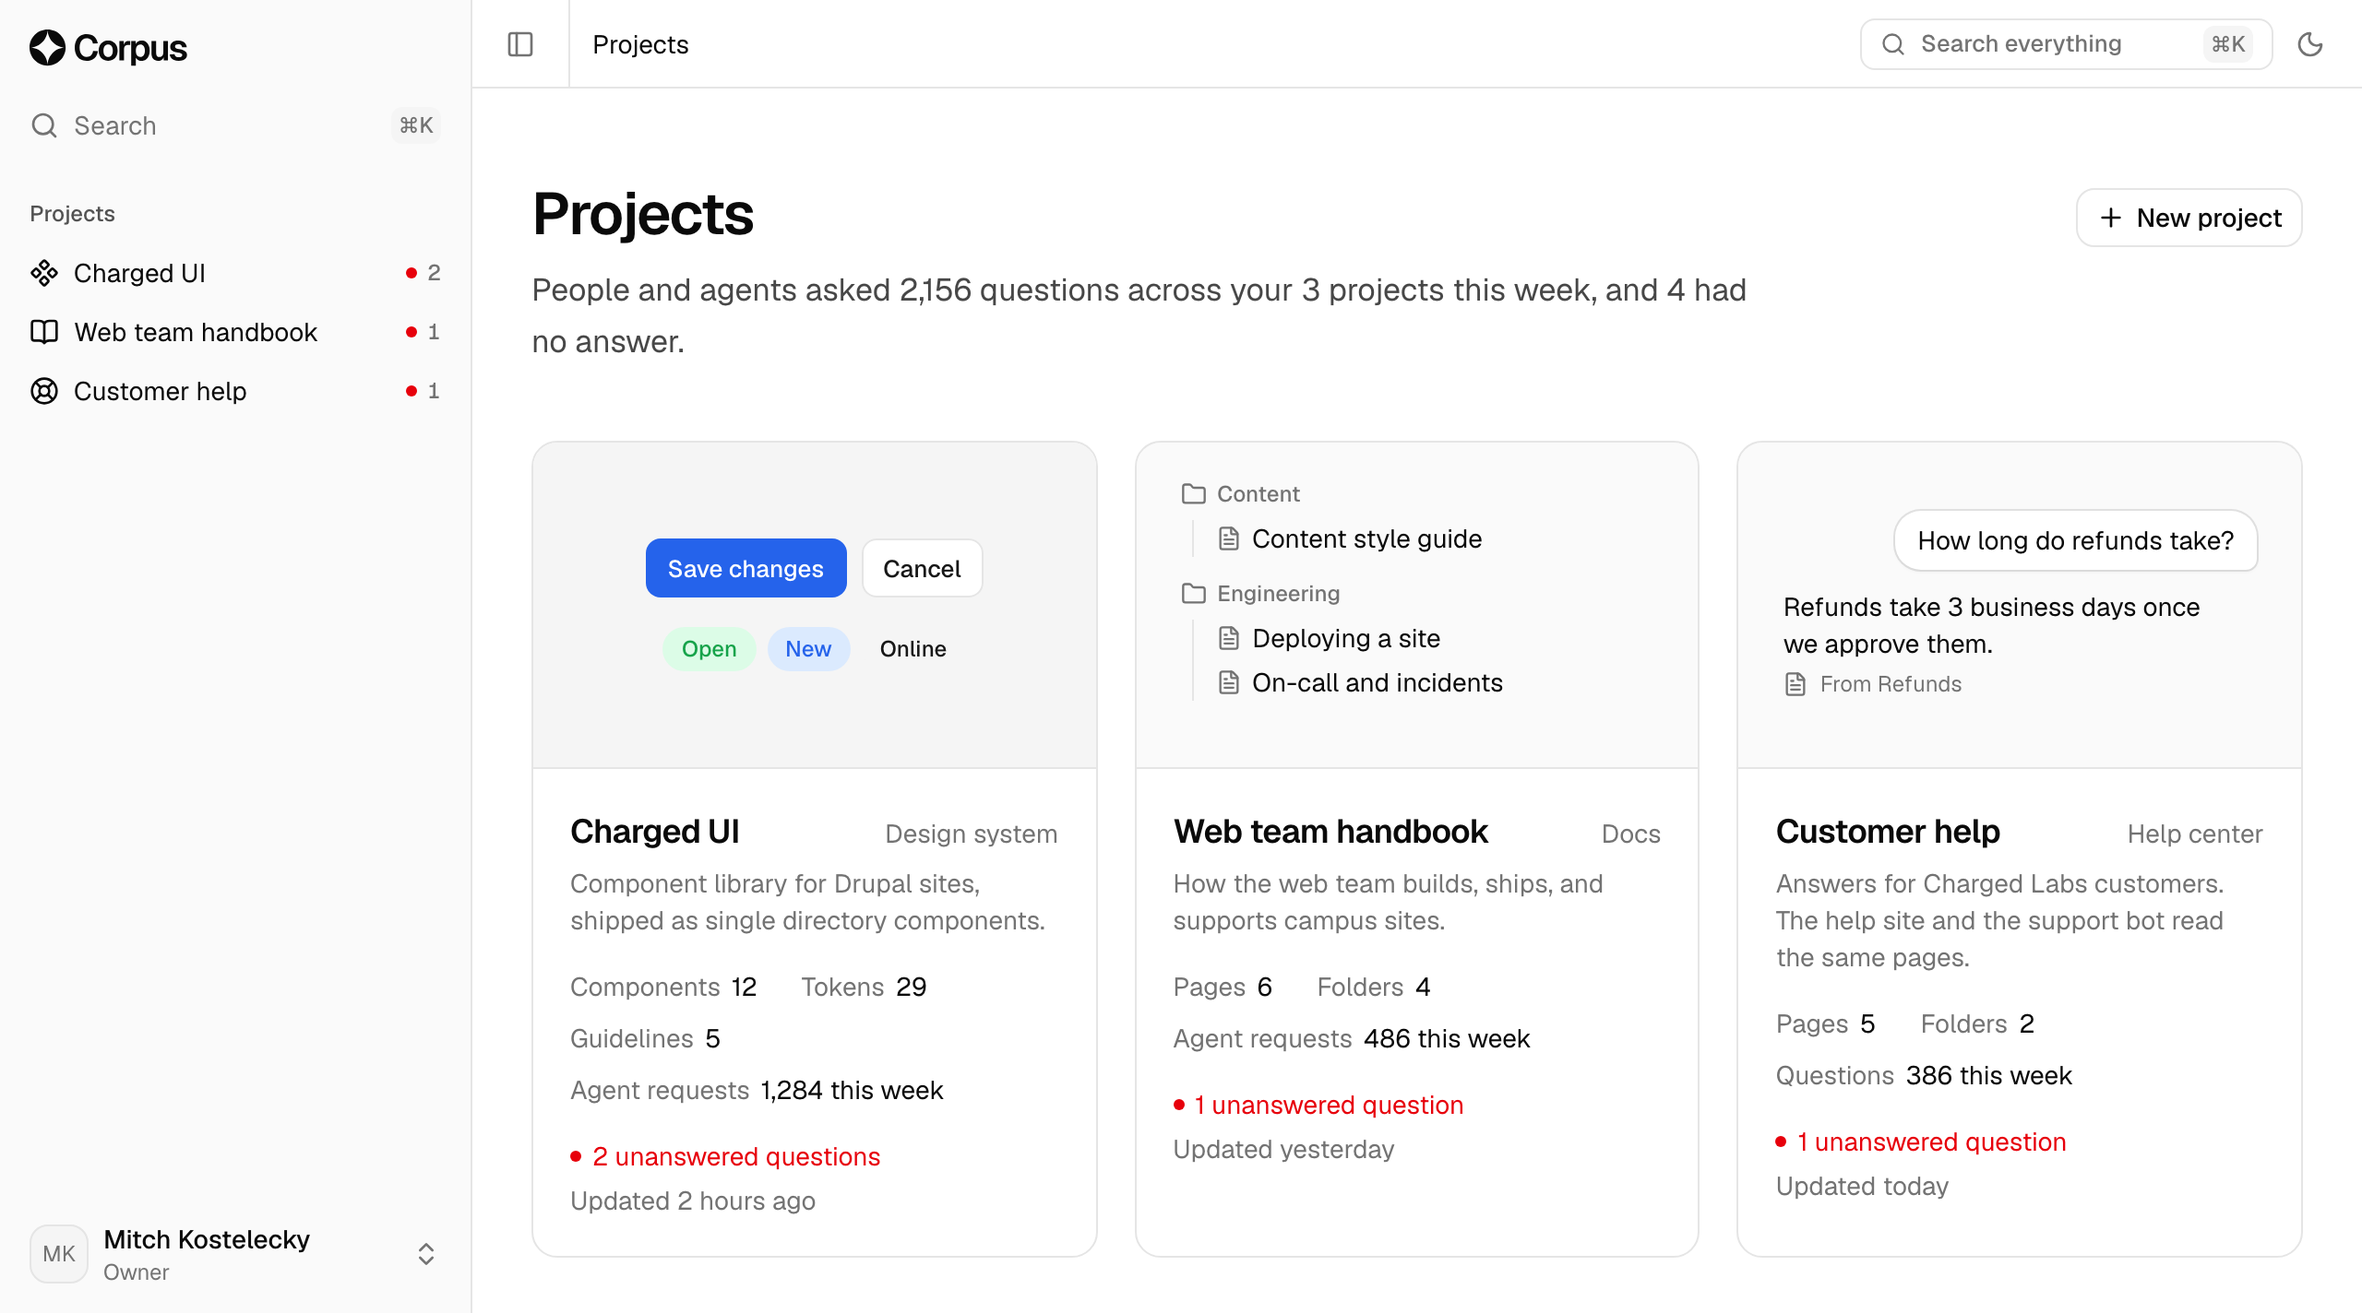
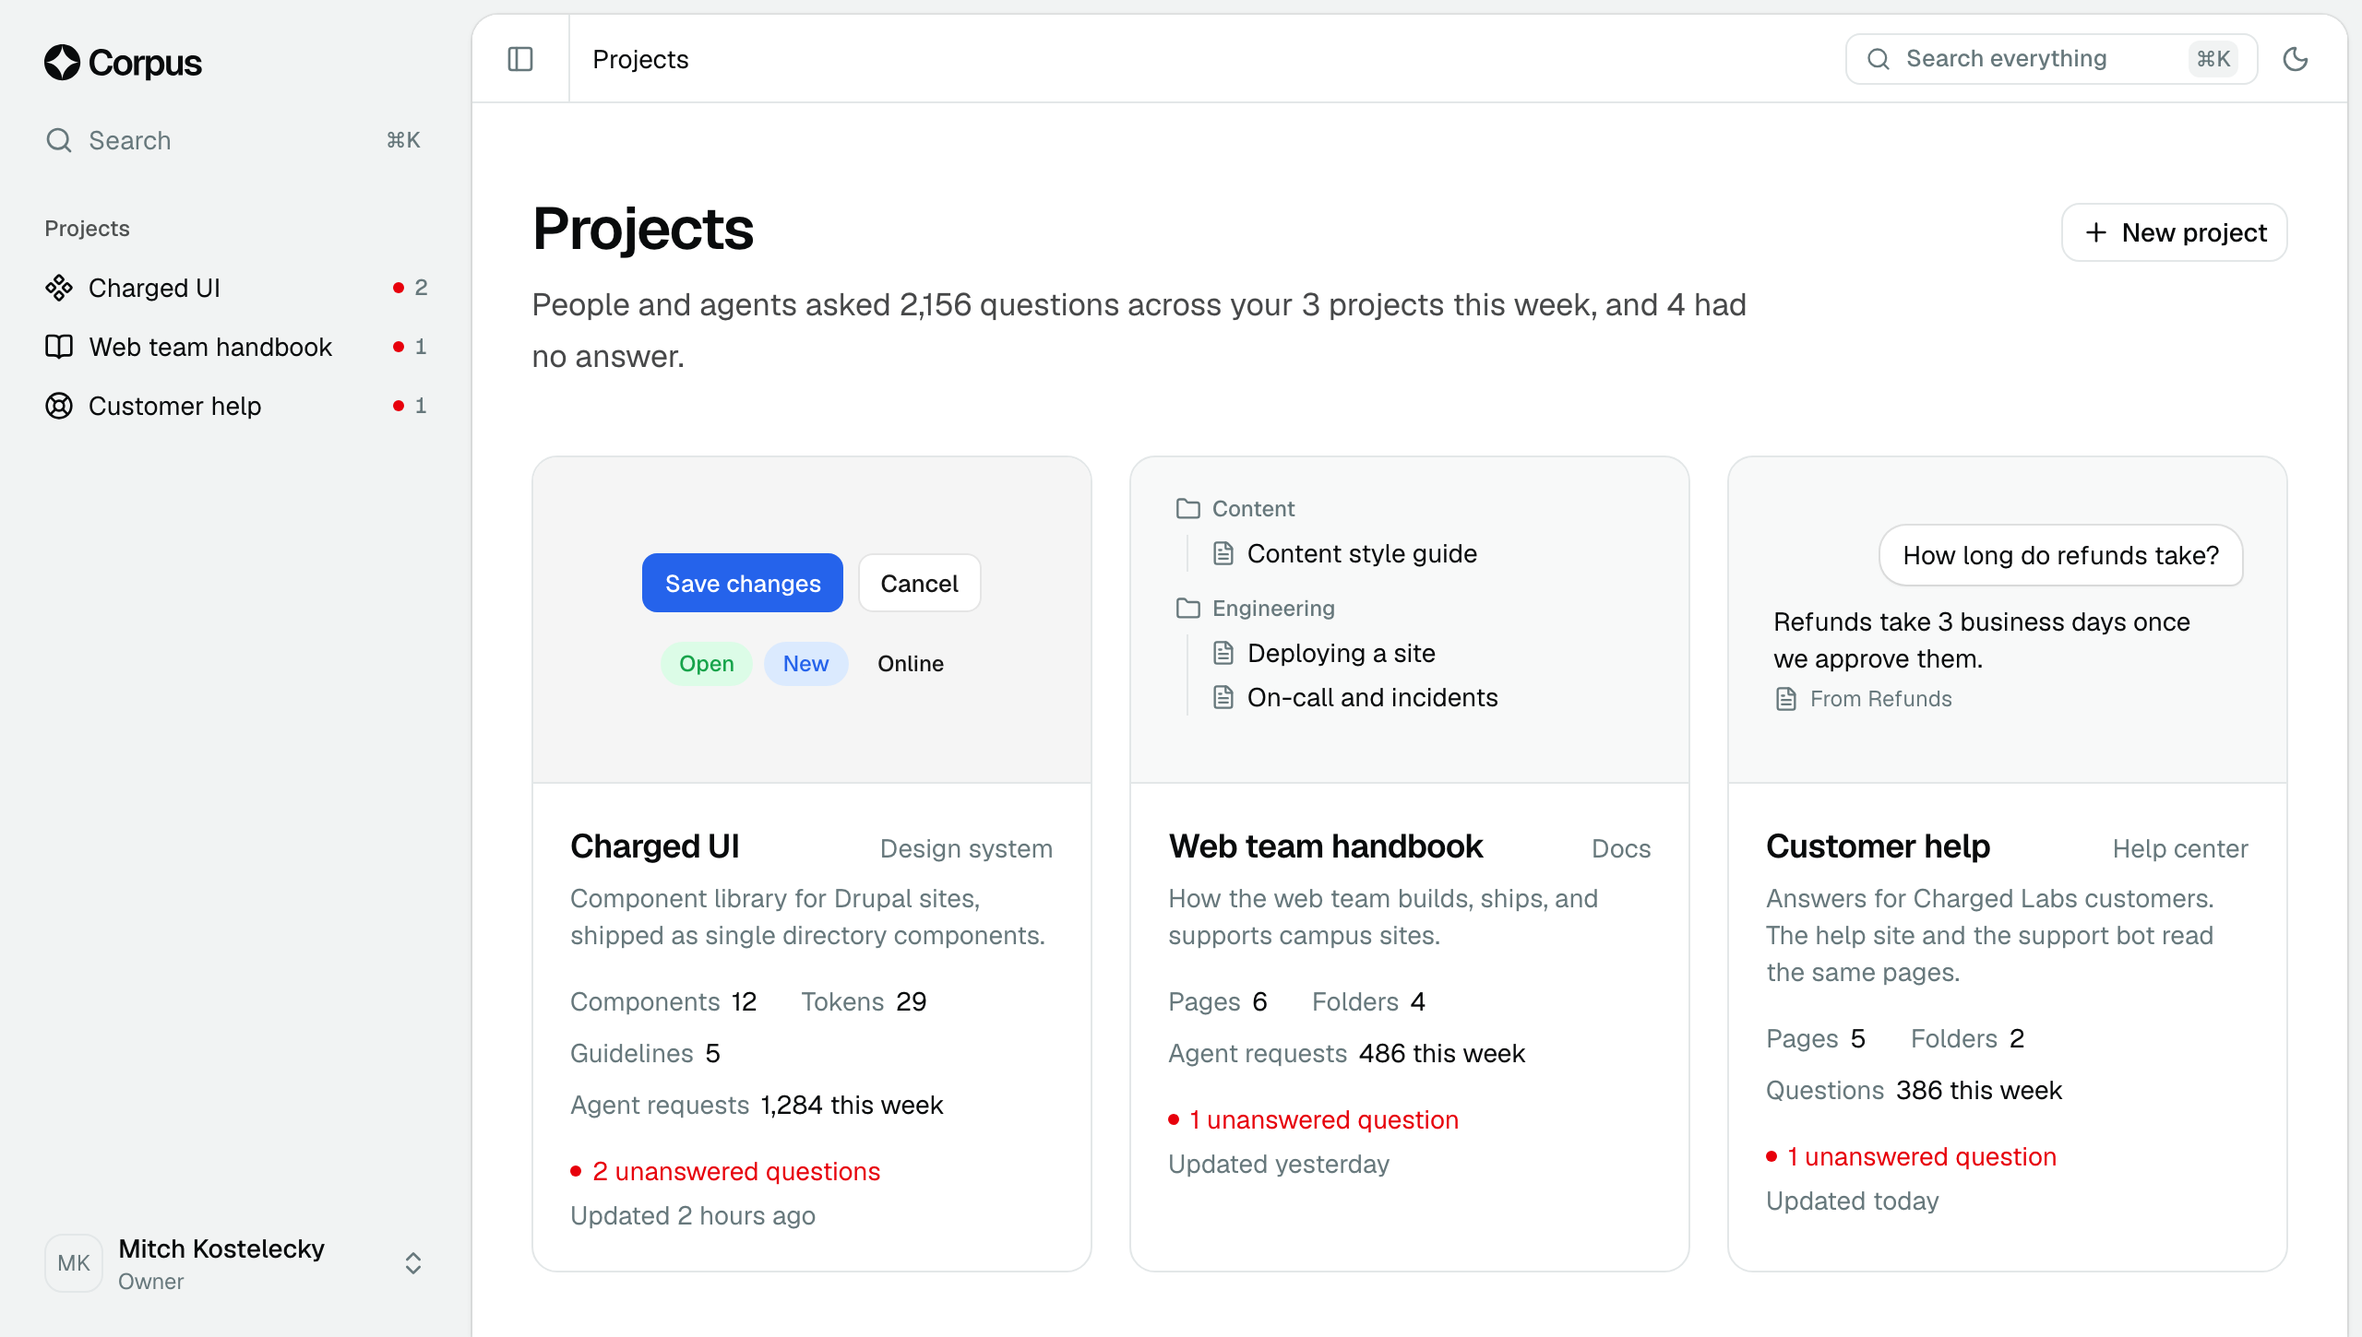
Frame the landing hero as an app window and add a live bot demo
- The hero shows the Projects screen in the new app frame, inside a
  window with the address bar and two callouts: a support answer and
  the agents connected over MCP
- The support bot section is now a working demo. It answers from the
  prototype's five sample help pages with the same rule as the
  prototype's bot, cites the page, and says when no page covers the
  question
- The split view screenshot is retaken in the new palette

diff --git a/landing/src/bot-demo.tsx b/landing/src/bot-demo.tsx
@@ -1,0 +1,139 @@
+import { useState, type FormEvent } from "react";
+import { cn } from "./lib/utils";
+import { answerFrom, helpPages, type BotReply } from "./bot";
+import { CorpusMark, Dot } from "./ui";
+
+const EXAMPLES = [
+  "How long do refunds take?",
+  "Can I move my license to a new site?",
+  "Does the theme work with Drupal 11?",
+  "Do you offer discounts for nonprofits?",
+];
+
+type Turn = { q: string; reply: BotReply };
+
+/**
+ * A working support bot, answering from the sample help center in the prototype.
+ * It starts with one answer showing, so the page reads well before anyone types.
+ */
+export function BotDemo({ className }: { className?: string }) {
+  const [turn, setTurn] = useState<Turn>(() => ({
+    q: EXAMPLES[0],
+    reply: answerFrom(EXAMPLES[0]),
+  }));
+  const [draft, setDraft] = useState("");
+  const [thinking, setThinking] = useState(false);
+
+  const ask = (q: string) => {
+    const text = q.trim();
+    if (!text || thinking) return;
+    setDraft("");
+    setThinking(true);
+    setTurn({ q: text, reply: { kind: "gap" } });
+    window.setTimeout(() => {
+      setTurn({ q: text, reply: answerFrom(text) });
+      setThinking(false);
+    }, 650);
+  };
+
+  const submit = (e: FormEvent) => {
+    e.preventDefault();
+    ask(draft);
+  };
+
+  return (
+    <div className={cn("overflow-hidden rounded-2xl bg-white shot", className)}>
+      <div className="flex items-center justify-between border-b px-5 py-3.5">
+        <span className="flex items-center gap-2.5 text-[15px] font-medium">
+          <span className="grid size-7 place-items-center rounded-lg bg-ink text-white">
+            <CorpusMark className="size-3.5" />
+          </span>
+          Charged Labs help
+        </span>
+        <Dot tone="good" className="text-[13px] text-muted">
+          Answers from {helpPages.length} pages
+        </Dot>
+      </div>
+
+      <div
+        className="grid min-h-[260px] content-start gap-4 bg-subtle px-5 py-5"
+        aria-live="polite"
+      >
+        <p className="max-w-[85%] justify-self-end rounded-2xl rounded-br-md bg-ink px-4 py-2.5 text-[15px] text-white">
+          {turn.q}
+        </p>
+        <div className="max-w-[92%] rounded-2xl rounded-bl-md border bg-white px-4 py-3.5">
+          {thinking ? (
+            <span className="flex gap-1 py-1.5" aria-label="Looking through the help pages">
+              {[0, 1, 2].map((i) => (
+                <span
+                  key={i}
+                  className="size-1.5 animate-bounce rounded-full bg-faint"
+                  style={{ animationDelay: `${i * 120}ms` }}
+                />
+              ))}
+            </span>
+          ) : turn.reply.kind === "answer" ? (
+            <>
+              <p className="text-[15px] leading-[1.55] text-pretty">{turn.reply.text}</p>
+              <p className="mt-3 flex flex-wrap items-center gap-x-2.5 gap-y-1 border-t pt-2.5 text-[13px] text-muted">
+                <Dot tone="good">From</Dot>
+                <span className="font-medium text-ink">
+                  {turn.reply.page.title}
+                  {turn.reply.section ? `, ${turn.reply.section}` : ""}
+                </span>
+                <code className="font-mono text-[12px]">{turn.reply.page.path}</code>
+              </p>
+            </>
+          ) : (
+            <>
+              <Dot tone="bad" className="text-[15px] font-medium text-bad">
+                No page answers this yet
+              </Dot>
+              <p className="mt-1.5 pl-4 text-[14.5px] leading-[1.5] text-pretty text-muted">
+                I’ll pass this to a person instead of guessing. Your team sees it in its list of
+                questions to answer.
+              </p>
+            </>
+          )}
+        </div>
+      </div>
+
+      <div className="border-t px-5 py-4">
+        <div className="flex flex-wrap gap-2">
+          {EXAMPLES.slice(1).map((q) => (
+            <button
+              key={q}
+              type="button"
+              onClick={() => ask(q)}
+              disabled={thinking}
+              className="rounded-full border bg-white px-3 py-1.5 text-[13.5px] text-muted transition hover:border-neutral-300 hover:text-ink focus-visible:ring-4 focus-visible:ring-neutral-200 focus-visible:outline-none disabled:opacity-60"
+            >
+              {q}
+            </button>
+          ))}
+        </div>
+        <form onSubmit={submit} className="mt-3 flex gap-2">
+          <label htmlFor="bot-question" className="sr-only">
+            Ask the support bot
+          </label>
+          <input
+            id="bot-question"
+            value={draft}
+            onChange={(e) => setDraft(e.target.value)}
+            placeholder="Ask your own question"
+            autoComplete="off"
+            className="h-11 min-w-0 flex-1 rounded-xl border bg-white px-3.5 text-[16px] transition outline-none placeholder:text-faint focus:border-neutral-400 focus:ring-4 focus:ring-neutral-200 sm:text-[15px]"
+          />
+          <button
+            type="submit"
+            disabled={thinking || !draft.trim()}
+            className="h-11 shrink-0 rounded-xl bg-ink px-4 text-[15px] font-medium text-white transition hover:bg-neutral-800 focus-visible:ring-4 focus-visible:ring-neutral-300 focus-visible:outline-none disabled:opacity-50"
+          >
+            Ask
+          </button>
+        </form>
+      </div>
+    </div>
+  );
+}

diff --git a/landing/src/App.tsx b/landing/src/App.tsx
@@ -1,12 +1,12 @@
 import { useEffect, useState, type ReactNode } from "react";
 import { CONFIG, JOBS, type JobId } from "./config";
 import { cn } from "./lib/utils";
-import { CorpusLogo, CorpusMark, Dot, Heading, Shot } from "./ui";
+import { AppWindow, CorpusLogo, CorpusMark, Dot, Heading, Shot } from "./ui";
+import { BotDemo } from "./bot-demo";
 import { visit } from "./visit";
 import { PreviewNotice, WaitlistForm } from "./waitlist";
 import heroShot from "./assets/hero-projects.png";
 import splitShot from "./assets/split.png";
-import botShot from "./assets/bot-answer.png";
 
 const WRAP = "mx-auto w-full max-w-[1180px] px-5 sm:px-8";
 
@@ -86,15 +86,41 @@ function Hero() {
         </div>
       </div>
       <div className="mx-auto mt-14 w-full max-w-[1260px] px-5 sm:mt-20 sm:px-8">
-        <Shot
-          src={heroShot}
-          width={2560}
-          height={1424}
-          alt="Corpus with three projects side by side: the Charged UI design system, a web team handbook, and a customer help center, each showing questions asked this week and the ones with no answer"
-          className="rounded-b-none sm:rounded-b-[14px]"
-        />
+        <div className="relative">
+          <AppWindow
+            src={heroShot}
+            width={2560}
+            height={1450}
+            address="corpus.charged.dev"
+            alt="Corpus with three projects side by side: the Charged UI design system, a web team handbook, and a customer help center, each showing questions asked this week and the ones with no answer"
+          />
+          <Callout className="top-[60%] -left-6">
+            <p className="text-[13px] text-muted">“How long do refunds take?”</p>
+            <Dot tone="good" className="mt-1 text-[14px] font-medium">
+              Answered from Refunds
+            </Dot>
+          </Callout>
+          <Callout className="top-[19%] -right-6">
+            <p className="text-[13px] text-muted">Connected over MCP</p>
+            <p className="mt-1 text-[14px] font-medium">Claude Code, Codex, Cursor</p>
+          </Callout>
+        </div>
       </div>
     </section>
+  );
+}
+
+/** A small card floating over the hero window, pointing at one thing the product does. */
+function Callout({ className, children }: { className?: string; children: ReactNode }) {
+  return (
+    <div
+      className={cn(
+        "absolute hidden rounded-xl bg-white px-4 py-3 shadow-[0_0_0_1px_rgb(0_0_0/0.08),0_12px_32px_-12px_rgb(0_0_0/0.25)] lg:block",
+        className,
+      )}
+    >
+      {children}
+    </div>
   );
 }
 
@@ -349,24 +375,19 @@ function SupportBot() {
             title="A support bot that cites its source, or says it doesn’t know."
             lead="It answers customers only from your help center’s pages and links the page it used. When no page covers a question, it hands off to a person instead of guessing."
           />
-          <div className="mt-8 rounded-2xl border p-5">
-            <p className="text-[15px] font-medium">“Do you offer discounts for nonprofits?”</p>
-            <Dot tone="bad" className="mt-3 text-[15px] text-bad">
-              No page answers this yet
-            </Dot>
-            <p className="mt-1.5 pl-4 text-[14.5px] leading-[1.5] text-pretty text-muted">
-              Handed to a person, and added to your list of questions to answer. Write the page
-              once, and every reader gets it.
-            </p>
-          </div>
+          <p className="mt-6 text-[15.5px] leading-[1.55] text-pretty">
+            <span className="font-medium">Try it.</span>{" "}
+            <span className="text-muted">
+              Ask about refunds, licenses, invoices, installing a theme, or updates. Then ask
+              something those pages don’t cover.
+            </span>
+          </p>
         </div>
         <div className="self-center">
-          <Shot
-            src={botShot}
-            width={1664}
-            height={754}
-            alt="The Corpus support bot answering “How long do refunds take?” with “Refunds take 3 business days once we approve them,” linked to the Refunds page it came from"
-          />
+          <BotDemo />
+          <p className="mt-3 text-[13.5px] text-muted">
+            A live demo, running on the five sample help pages from the prototype.
+          </p>
         </div>
       </div>
     </section>

diff --git a/landing/src/bot.ts b/landing/src/bot.ts
@@ -1,0 +1,93 @@
+// The support bot demo on the landing page. It answers from the prototype's own
+// sample help center (fixtures/help), using the same rule as src/lib/support.ts:
+// answer from the best-matching section, or say it doesn't know when fewer than
+// half of the question's meaningful words appear there. Keep the two in step.
+
+export type HelpPage = { id: string; title: string; path: string; body: string };
+
+const files = import.meta.glob<string>("../../fixtures/help/docs/**/*.md", {
+  query: "?raw",
+  import: "default",
+  eager: true,
+});
+
+export const helpPages: HelpPage[] = Object.entries(files).map(([file, source]) => {
+  const path = file.replace(/^.*fixtures\/help\//, "");
+  const front = source.match(/^---\n([\s\S]*?)\n---\n?/);
+  const title = front?.[1].match(/^title:\s*(.+)$/m)?.[1].trim() ?? path;
+  return {
+    id: path.replace(/^.*\//, "").replace(/\.md$/, ""),
+    title,
+    path,
+    body: front ? source.slice(front[0].length) : source,
+  };
+});
+
+const STOP = new Set(
+  (
+    "a an the and or but to of in on for with at by from is are was be do does did can could " +
+    "i you we my your our it its how what when where which who why will would should there this " +
+    "that these those me us any about into if so as have has get"
+  ).split(" "),
+);
+
+function words(text: string): string[] {
+  return (text.toLowerCase().match(/[a-z0-9]+/g) ?? [])
+    .filter((w) => w.length > 1 && !STOP.has(w))
+    .map((w) => {
+      if (w.length > 4 && w.endsWith("ies")) return `${w.slice(0, -3)}y`;
+      if (w.length > 3 && w.endsWith("s") && !w.endsWith("ss")) return w.slice(0, -1);
+      return w;
+    });
+}
+
+function plain(md: string) {
+  return md
+    .replace(/\[([^\]]+)\]\([^)]+\)/g, "$1")
+    .replace(/[`*_]/g, "")
+    .replace(/^[-*]\s+/gm, "")
+    .replace(/\s*\n\s*/g, " ")
+    .trim();
+}
+
+type Section = { heading: string | null; text: string };
+
+function sectionsOf(page: HelpPage): Section[] {
+  const out: Section[] = [];
+  let heading: string | null = null;
+  for (const block of page.body.split(/\n\s*\n/)) {
+    const b = block.trim();
+    if (!b) continue;
+    const h = b.match(/^#{2,3}\s+(.*)$/);
+    if (h) {
+      heading = h[1];
+      continue;
+    }
+    out.push({ heading, text: plain(b) });
+  }
+  return out;
+}
+
+export type BotReply =
+  | { kind: "answer"; text: string; page: HelpPage; section: string | null }
+  | { kind: "gap" };
+
+export function answerFrom(question: string, pages: HelpPage[] = helpPages): BotReply {
+  const asked = [...new Set(words(question))];
+  if (!asked.length) return { kind: "gap" };
+  let best: { page: HelpPage; section: Section; coverage: number } | null = null;
+  for (const page of pages) {
+    for (const section of sectionsOf(page)) {
+      const found = new Set(words(`${page.title} ${section.heading ?? ""} ${section.text}`));
+      const coverage = asked.filter((w) => found.has(w)).length / asked.length;
+      if (!best || coverage > best.coverage) best = { page, section, coverage };
+    }
+  }
+  if (!best || best.coverage < 0.5) return { kind: "gap" };
+  return {
+    kind: "answer",
+    text: best.section.text,
+    page: best.page,
+    section: best.section.heading,
+  };
+}

diff --git a/landing/src/ui.tsx b/landing/src/ui.tsx
@@ -118,3 +118,46 @@ export function Heading({
     </div>
   );
 }
+
+/**
+ * The product framed as an app window: a slim title bar with the address, then the
+ * screenshot, which already shows the app's tinted canvas and white panel.
+ */
+export function AppWindow({
+  src,
+  alt,
+  width,
+  height,
+  address,
+  className,
+}: {
+  src: string;
+  alt: string;
+  width: number;
+  height: number;
+  address: string;
+  className?: string;
+}) {
+  return (
+    <div className={cn("shot overflow-hidden bg-mist-100", className)}>
+      <div className="relative flex h-10 items-center border-b border-black/[0.06] px-4">
+        <span className="flex gap-2" aria-hidden>
+          <span className="size-3 rounded-full bg-mist-300" />
+          <span className="size-3 rounded-full bg-mist-300" />
+          <span className="size-3 rounded-full bg-mist-300" />
+        </span>
+        <span className="absolute left-1/2 hidden -translate-x-1/2 rounded-md bg-white/80 px-3 py-1 text-[12.5px] text-muted ring-1 ring-black/[0.06] sm:block">
+          {address}
+        </span>
+      </div>
+      <img
+        src={src}
+        alt={alt}
+        width={width}
+        height={height}
+        decoding="async"
+        className="block h-auto w-full"
+      />
+    </div>
+  );
+}

diff --git a/landing/vite.config.ts b/landing/vite.config.ts
@@ -11,6 +11,8 @@ export default defineConfig({
     options: { typeAware: true, typeCheck: true },
   },
   base: "./",
+  // The support bot demo reads the prototype's sample help pages from ../fixtures.
+  server: { fs: { allow: [".."] } },
   plugins: lazyPlugins(() => [
     react(),
     tailwindcss(),
